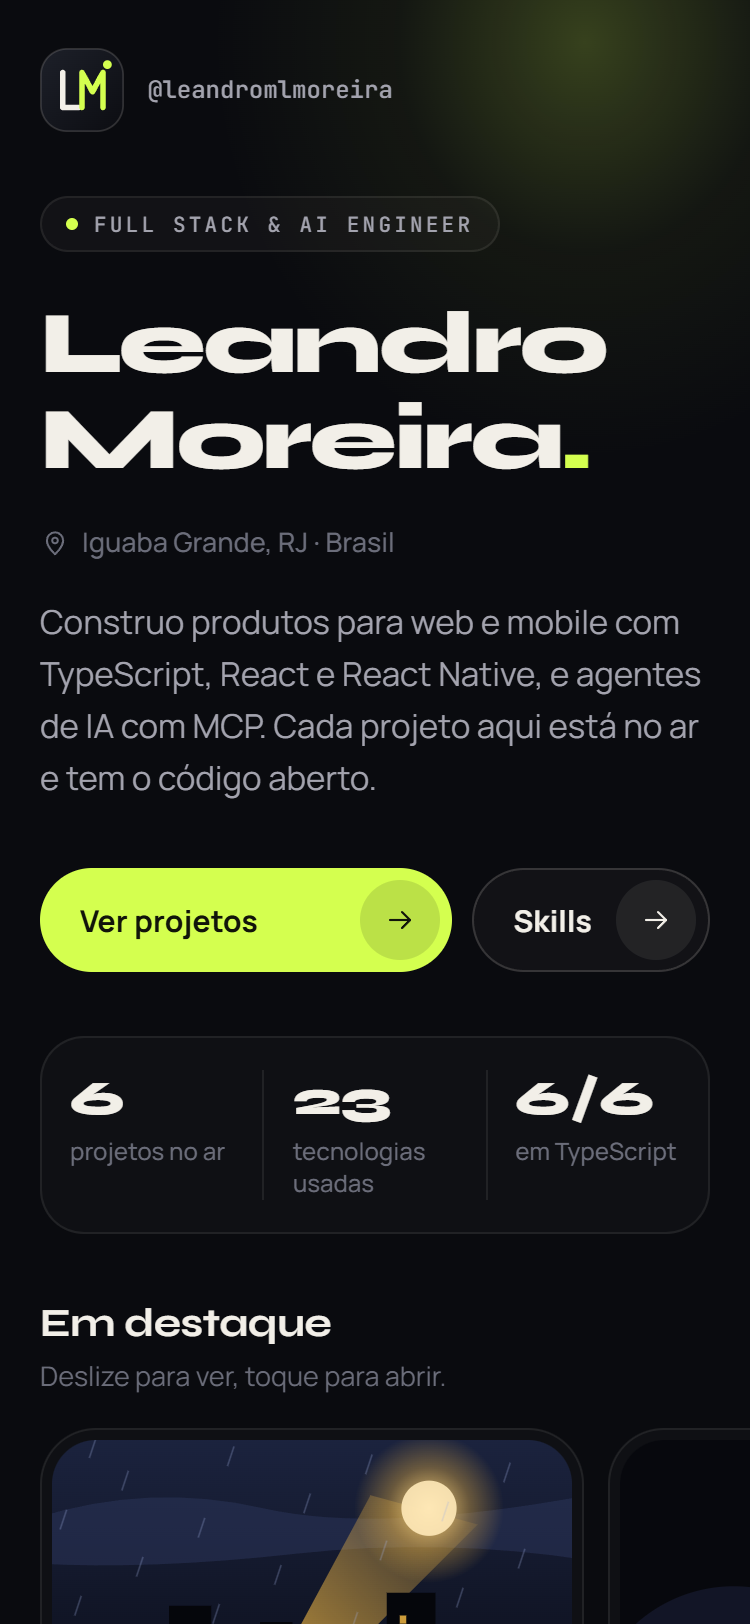
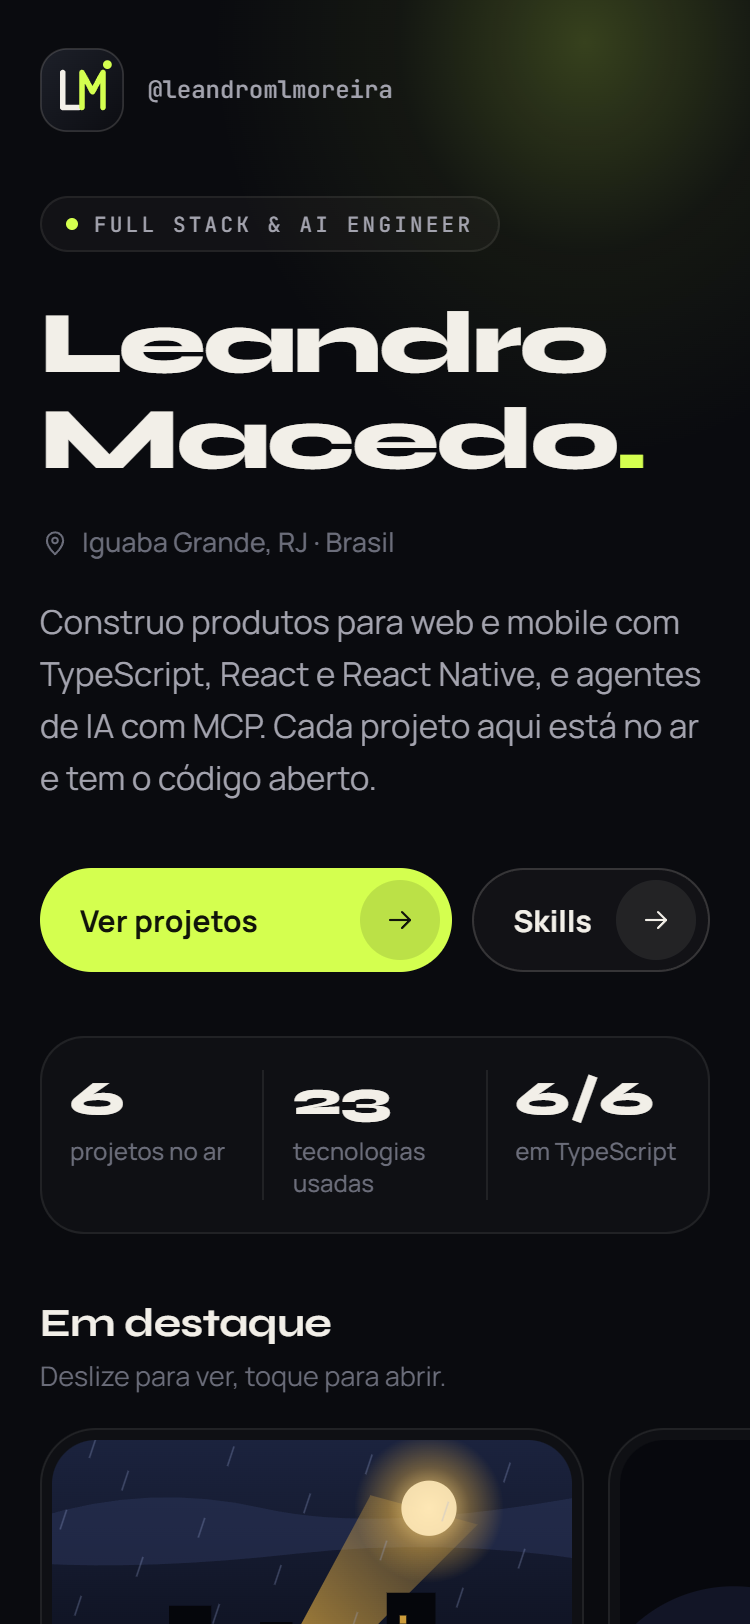
Usa o nome público Leandro Macedo no portfólio

Changed region(s): [[0.3067, 0.2463, 0.8587, 0.3079]]

diff --git a/src/navigation/AppNavigator.tsx b/src/navigation/AppNavigator.tsx
@@ -34,7 +34,7 @@ export function AppNavigator() {
     <NavigationContainer
       ref={navigationRef}
       theme={theme}
-      documentTitle={{ formatter: (options) => `${options?.title ?? "Portfólio"} · Leandro Moreira` }}
+      documentTitle={{ formatter: (options) => `${options?.title ?? "Portfólio"} · Leandro Macedo` }}
     >
       <Stack.Navigator
         screenOptions={{

diff --git a/src/data/profile.ts b/src/data/profile.ts
@@ -7,7 +7,7 @@ export type ProfileLink = {
 
 export const profile = {
   firstName: "Leandro",
-  lastName: "Moreira",
+  lastName: "Macedo",
   initials: "LM",
   role: "Full Stack & AI Engineer",
   location: "Iguaba Grande, RJ · Brasil",

diff --git a/README.md b/README.md
@@ -1,4 +1,4 @@
-# Leandro Moreira · Portfólio
+# Leandro Macedo · Portfólio
 
 Meu portfólio em forma de app, feito em React Native + Expo: os projetos que estão no ar, filtros por tecnologia, detalhes de cada um e as ferramentas com que trabalho, no celular e na web.
 
